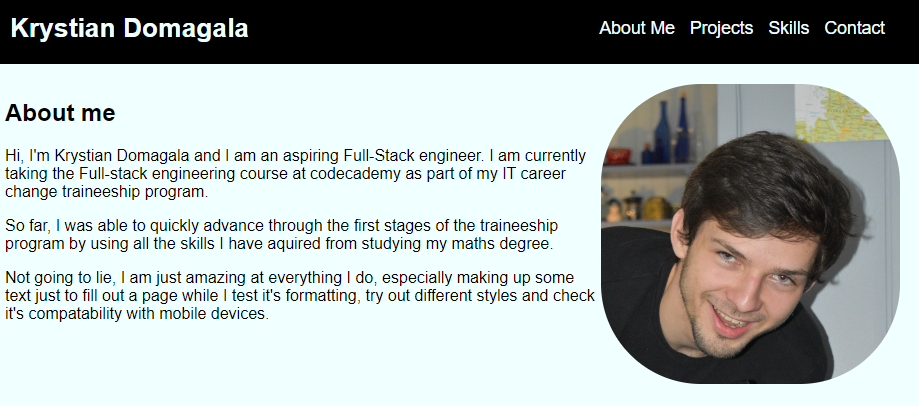
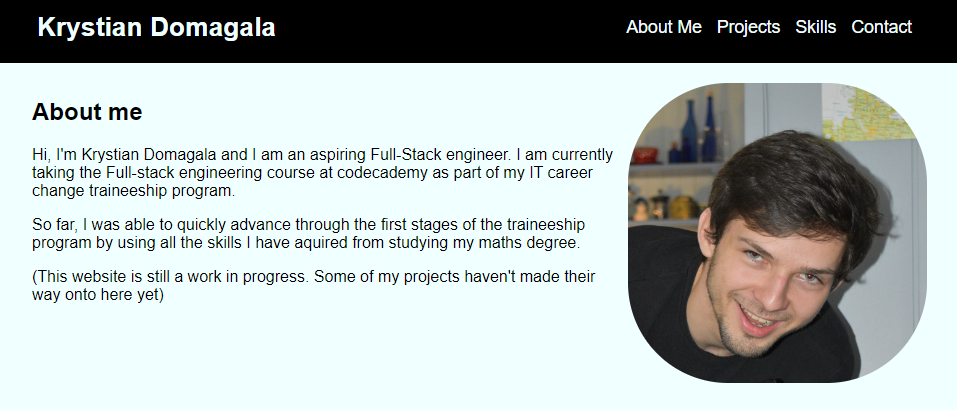
Updated some details

diff --git a/index.html b/index.html
@@ -24,7 +24,7 @@
                 <h2 id="aboutMe">About me</h2>
                 <p>Hi, I'm Krystian Domagala and I am an aspiring Full-Stack engineer. I am currently taking the Full-stack engineering course at codecademy as part of my IT career change traineeship program.</p>
                 <p>So far, I was able to quickly advance through the first stages of the traineeship program by using all the skills I have aquired from studying my maths degree.</p>
-                <p>Not going to lie, I am just amazing at everything I do, especially making up some text just to fill out a page while I test it's formatting, try out different styles and check it's compatability with mobile devices.</p>
+                <p>(This website is still a work in progress. Some of my projects haven't made their way onto here yet)</p>
             </div>
             <img id="profile" src="resources/images/profile-picture.jpg">
         </div>
@@ -39,6 +39,15 @@
                 <summary>JCB project</summary>
                 <img class="projectImg" src="resources/images/jcb-project.png">
                 <article>This is one of the projects i have done at university. I had to invent an algorithm to lower the amount of partitions within a database. This was a very primative program that was inefficient, but it was the very first useful program I have ever written with very little knowledge of Java.</article>
+            </details><br>
+            <details>
+                <summary>E-commerce website</summary>
+                <img class="projectImg" src="resources/images/e-commerce.png">
+                <article>
+                    In this project, I have created a fully functioning e-commerce website where you can create an account and log in, browse the shop using the search bar, add products to your cart and check out.
+                    I have implemented the front-end using React, the back-end using node.js, server was handled using express and the data was stored in a SQL database.
+                    Currently looking to implement OAuth login option.
+                </article>
             </details>
         </div>
         <div id="skillsContainer">
